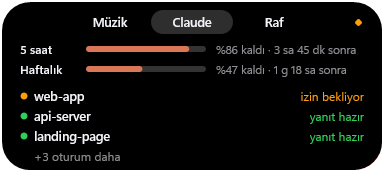
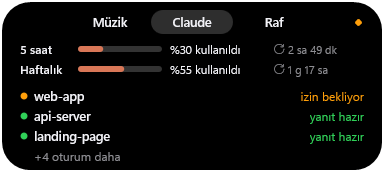
Limits as used, Send to the shelf; release 1.3.0
- Claude's limits show how much is used, not what is left: the closed island's
  ring fills with use; the Claude page reads "%27 kullanıldı" with the time to
  the reset. Colors go orange from 70% used, red from 90%. Same in the status
  line.
- Explorer's "Send to → Dynamic Island" (island.exe --shelf <files>) puts files
  on the shelf without dragging; the installer adds the shortcut.
- The glow around the island is thinner and fainter.
- A shelf click that does not come from a held mouse button never waits in
  DragDetect.

diff --git a/src/pages.rs b/src/pages.rs
@@ -161,11 +161,11 @@ pub fn two_lines(c: &Canvas, title: &str, detail: &str, w: f32, h: f32) -> Resul
 /// Diameter of the 5-hour limit ring.
 pub const RING: f32 = 22.0;
 
-/// What is left of the 5-hour limit: a ring that empties, the number inside.
-pub fn limit_ring(c: &Canvas, center: (f32, f32), left: f32, color: u32) -> Result<()> {
-    c.ring(center, RING / 2.0 - 1.5, 2.2, left / 100.0, color, FAINT)?;
+/// How much of the 5-hour limit is used: a ring that fills, the percent inside.
+pub fn limit_ring(c: &Canvas, center: (f32, f32), used: f32, color: u32) -> Result<()> {
+    c.ring(center, RING / 2.0 - 1.5, 2.2, used / 100.0, color, FAINT)?;
     let box_ = (center.0 - RING / 2.0, center.1 - RING / 2.0, RING, RING);
-    c.text(&format!("{left:.0}"), box_, if left >= 99.5 { 7.5 } else { 8.5 }, true, TEXT, Align::Center)
+    c.text(&format!("{used:.0}"), box_, if used >= 99.5 { 7.5 } else { 8.5 }, true, TEXT, Align::Center)
 }
 
 /// The volume peek in a `(w, h)` line: speaker, level bar, number.
@@ -222,17 +222,22 @@ pub fn claude_page(c: &Canvas, sessions: &[Session], limits: &Limits, now: u64) 
         c.text("Limit bilgisi yok", (X, 0.0, 200.0, 18.0), 12.0, true, TEXT, Align::Left)?;
         c.text("Claude Code'da oturum açılınca gelir", (X, 18.0, RIGHT - X, 18.0), 11.5, false, DIM, Align::Left)?;
     } else {
+        // Label, bar filled by what is used, "%23 kullanıldı", time to the reset.
         for (row, (label, window)) in [("5 saat", limits.five_hour), ("Haftalık", limits.seven_day)].into_iter().enumerate() {
             let y = row as f32 * 20.0;
-            let (remaining, text) = limit_text(window, limits.updated, now);
-            c.text(label, (X, y, 64.0, 18.0), 12.0, true, TEXT, Align::Left)?;
-            let (bar_x, bar_w) = (X + 66.0, 120.0);
+            let limit = limit_text(window, limits.updated, now);
+            c.text(label, (X, y, 56.0, 18.0), 12.0, true, TEXT, Align::Left)?;
+            let (bar_x, bar_w) = (X + 58.0, 84.0);
             c.round_rect((bar_x, y + 6.0, bar_w, 6.0), 3.0, FAINT)?;
-            if remaining > 0.0 {
-                let fill = if remaining < 0.1 { 0xFFFF453A } else if remaining < 0.3 { 0xFFFF9F0A } else { 0xFFD97757 };
-                c.round_rect((bar_x, y + 6.0, (bar_w * remaining).max(6.0), 6.0), 3.0, fill)?;
+            if limit.used > 0.0 {
+                let fill = crate::claude::usage_color(limit.used * 100.0);
+                c.round_rect((bar_x, y + 6.0, (bar_w * limit.used).max(6.0), 6.0), 3.0, fill)?;
             }
-            c.text(&text, (bar_x + bar_w + 10.0, y, RIGHT - bar_x - bar_w - 10.0, 18.0), 11.5, false, DIM, Align::Left)?;
+            c.text(&limit.used_text, (bar_x + bar_w + 8.0, y, 104.0, 18.0), 11.5, false, TEXT, Align::Left)?;
+            if limit.renews {
+                c.icon('\u{E72C}', (RIGHT - 92.0, y, 14.0, 18.0), 9.5, DIM)?; // Refresh, before the time
+            }
+            c.text(&limit.when, (RIGHT - 76.0, y, 76.0, 18.0), 11.0, false, DIM, Align::Left)?;
         }
     }
 
@@ -275,20 +280,29 @@ pub fn session_rows(sessions: &[Session]) -> Vec<&Session> {
     ordered
 }
 
-/// Remaining share (0..1) and the text next to the bar.
-pub fn limit_text(window: Option<Window>, updated: u64, now: u64) -> (f32, String) {
-    let Some(w) = window else { return (0.0, "bilgi yok".into()) };
+/// One limit row's figures.
+#[derive(Debug, PartialEq)]
+pub struct LimitText {
+    pub used: f32, // share used, 0..1
+    pub used_text: String,
+    pub when: String, // time to the reset, or how old the figures are
+    pub renews: bool, // `when` is the time to the reset
+}
+
+pub fn limit_text(window: Option<Window>, updated: u64, now: u64) -> LimitText {
+    let Some(w) = window else { return LimitText { used: 0.0, used_text: "bilgi yok".into(), when: String::new(), renews: false } };
     if now >= w.resets_at {
-        return (1.0, "%100 kaldı · sıfırlandı".into());
+        return LimitText { used: 0.0, used_text: "%0 kullanıldı".into(), when: "sıfırlandı".into(), renews: false };
     }
-    let remaining = (100.0 - w.used_percentage).clamp(0.0, 100.0);
+    let used = w.used_percentage.clamp(0.0, 100.0);
     let age = now.saturating_sub(updated);
-    let when = if age > 30 * 60 {
-        format!("{} önce", duration_text(age))
+    // Figures older than half an hour say so instead of a countdown that may be stale.
+    let (when, renews) = if age > 30 * 60 {
+        (format!("{} önce", duration_text(age)), false)
     } else {
-        format!("{} sonra", duration_text(w.resets_at - now))
+        (duration_text(w.resets_at - now), true)
     };
-    ((remaining / 100.0) as f32, format!("%{remaining:.0} kaldı · {when}"))
+    LimitText { used: (used / 100.0) as f32, used_text: format!("%{used:.0} kullanıldı"), when, renews }
 }
 
 fn duration_text(seconds: u64) -> String {
@@ -344,12 +358,14 @@ mod tests {
         assert_eq!(duration_text(2 * 3600 + 13 * 60), "2 sa 13 dk");
         assert_eq!(duration_text(3 * 86400 + 4 * 3600), "3 g 4 sa");
         let w = Window { used_percentage: 42.4, resets_at: 10_000 };
-        let (remaining, text) = limit_text(Some(w), 1_000, 1_000 + 60);
-        assert!((remaining - 0.576).abs() < 1e-4);
-        assert_eq!(text, "%58 kaldı · 2 sa 29 dk sonra");
-        assert_eq!(limit_text(Some(w), 0, 10_000).1, "%100 kaldı · sıfırlandı");
-        assert_eq!(limit_text(Some(w), 0, 3_000).1, "%58 kaldı · 50 dk önce");
-        assert_eq!(limit_text(None, 0, 0).1, "bilgi yok");
+        let fresh = limit_text(Some(w), 1_000, 1_000 + 60);
+        assert!((fresh.used - 0.424).abs() < 1e-4);
+        assert_eq!((fresh.used_text.as_str(), fresh.when.as_str(), fresh.renews), ("%42 kullanıldı", "2 sa 29 dk", true));
+        let reset = limit_text(Some(w), 0, 10_000);
+        assert_eq!((reset.used, reset.used_text.as_str(), reset.when.as_str()), (0.0, "%0 kullanıldı", "sıfırlandı"));
+        let stale = limit_text(Some(w), 0, 3_000); // figures 50 minutes old
+        assert_eq!((stale.when.as_str(), stale.renews), ("50 dk önce", false));
+        assert_eq!(limit_text(None, 0, 0).used_text, "bilgi yok");
     }
 
     #[test]

diff --git a/src/window.rs b/src/window.rs
@@ -11,6 +11,7 @@ use windows::{
         Graphics::Gdi::*,
         Storage::FileSystem::*,
         System::{
+            DataExchange::COPYDATASTRUCT,
             LibraryLoader::GetModuleHandleW,
             Ole::{IDropTarget, OleInitialize, RegisterDragDrop, RevokeDragDrop},
             Registry::*,
@@ -51,6 +52,7 @@ const WM_DEVICE_LOST: u32 = WM_APP + 6;
 const WM_VOLUME: u32 = WM_APP + 7;
 const WM_AUDIO_DEVICE: u32 = WM_APP + 8;
 const WM_DRAG_FILES: u32 = WM_APP + 10; // WPARAM: 1 files came over, 0 they left, 2 dropped
+const SHELF_COPYDATA: usize = 0x5348_454C; // "SHEL": WM_COPYDATA from `island.exe --shelf`
 const VOLUME_MS: u32 = 1500;
 const NIN_KEYSELECT: u32 = NIN_SELECT | 1; // NINF_KEY
 // All timers are one-shot: the window procedure kills each one when it fires.
@@ -113,6 +115,21 @@ struct App {
 
 /// Status, what it is about, 5-hour limit left and its color, color of the Claude mark.
 type CompactLine = (String, String, Option<(f32, u32)>, u32);
+
+/// `island.exe --shelf <files>`: puts the files on the running island's shelf. Explorer's
+/// "Send to → Dynamic Island" runs this with the selected files.
+pub fn send_to_shelf(paths: Vec<String>) {
+    let text = paths.join("\n");
+    let data = COPYDATASTRUCT { dwData: SHELF_COPYDATA, cbData: text.len() as u32, lpData: text.as_ptr() as *mut _ };
+    unsafe {
+        match FindWindowW(w!("NightdijitalIsland"), None) {
+            Ok(island) => {
+                SendMessageW(island, WM_COPYDATA, Some(WPARAM(0)), Some(LPARAM(&data as *const _ as isize)));
+            }
+            Err(_) => log("shelf: the island is not running"),
+        }
+    }
+}
 
 /// Creates the island window and runs the message loop until it is destroyed.
 pub fn run() -> Result<()> {
@@ -481,7 +498,7 @@ impl App {
     fn show_claude_state(&mut self, pulse: bool) {
         let (status, detail, mark) = claude::summary(&self.sessions, |s| !self.seen.contains(&s.id));
         // ponytail: a limit that resets while nothing happens shows 100 only at the next event
-        let line = (status, detail, claude::five_hour_left(&self.limits, claude::now_ms() / 1000), mark);
+        let line = (status, detail, claude::five_hour_used(&self.limits, claude::now_ms() / 1000), mark);
         let Some(island) = &self.island else { return };
         if self.compact_line.as_ref() != Some(&line) {
             if let Err(e) = island.draw_compact(&line.0, &line.1, line.2, line.3) {
@@ -961,6 +978,23 @@ impl App {
             WM_MEDIA => self.media_changed(),
             WM_VOLUME => self.show_volume(wparam.0 as u32, lparam.0 != 0),
             WM_DRAG_FILES => self.files_dragged(wparam.0),
+            // Files sent with `island.exe --shelf` (Explorer's "Send to").
+            WM_COPYDATA => {
+                let data = unsafe { (lparam.0 as *const COPYDATASTRUCT).as_ref() };
+                let Some(data) = data.filter(|d| d.dwData == SHELF_COPYDATA && !d.lpData.is_null()) else { return Ok(None) };
+                let bytes = unsafe { std::slice::from_raw_parts(data.lpData as *const u8, data.cbData as usize) };
+                let paths: Vec<std::path::PathBuf> = String::from_utf8_lossy(bytes).lines().filter(|l| !l.is_empty()).map(Into::into).collect();
+                let added = self.shelves[FILES].add(paths, false);
+                log(format!("shelf: {added} file(s) sent"));
+                self.list = FILES;
+                if self.view == View::Expanded && self.tab() == Some(Tab::Shelf) {
+                    self.draw_shelf();
+                } else if added > 0 {
+                    let text = format!("{added} dosya rafta");
+                    self.peek(Tab::Shelf, PEEK_MS, |island| island.draw_peek(&text, Some(0xFF0A84FF)));
+                }
+                return Ok(Some(LRESULT(1)));
+            }
             WM_AUDIO_DEVICE => self.follow_audio(),
             // On the open shelf the wheel scrolls its row; elsewhere it switches players.
             WM_MOUSEWHEEL if self.view == View::Expanded && self.tab() == Some(Tab::Shelf) => {
@@ -1108,9 +1142,11 @@ fn press_shelf_item(hwnd: HWND, index: usize, dragged: &[std::path::PathBuf], mu
         }
         return;
     }
+    // DragDetect waits for the mouse; a click that did not come from a held button (pen,
+    // touch, a posted message) is a click.
     let dragging = unsafe {
         let _ = ClientToScreen(hwnd, &mut point);
-        DragDetect(hwnd, point).as_bool()
+        GetAsyncKeyState(VK_LBUTTON.0 as i32) < 0 && DragDetect(hwnd, point).as_bool()
     };
     if !dragging {
         with_app(&mut |app| app.toggle_shelf_item(index));

diff --git a/src/claude.rs b/src/claude.rs
@@ -183,7 +183,7 @@ fn status_text(model: &str, limits: Option<&Limits>) -> String {
     if let Some(limits) = limits {
         for (label, window) in [("5 sa", limits.five_hour), ("hafta", limits.seven_day)] {
             if let Some(w) = window {
-                parts.push(format!("{label} %{:.0} kaldı", (100.0 - w.used_percentage).max(0.0)));
+                parts.push(format!("{label} %{:.0} kullanıldı", w.used_percentage.clamp(0.0, 100.0)));
             }
         }
     }
@@ -413,19 +413,22 @@ pub fn summary(sessions: &[Session], unseen: impl Fn(&Session) -> bool) -> (Stri
     }
 }
 
-/// Percent left of the 5-hour limit, and its color: Claude's own while there is plenty,
-/// orange under 30%, red under 10%.
-pub fn five_hour_left(limits: &Limits, now: u64) -> Option<(f32, u32)> {
+/// Percent used of the 5-hour limit (0 once it has reset), and its color.
+pub fn five_hour_used(limits: &Limits, now: u64) -> Option<(f32, u32)> {
     let w = limits.five_hour?;
-    let left = if now >= w.resets_at { 100.0 } else { (100.0 - w.used_percentage).clamp(0.0, 100.0) as f32 };
-    let color = if left < 10.0 {
+    let used = if now >= w.resets_at { 0.0 } else { w.used_percentage.clamp(0.0, 100.0) as f32 };
+    Some((used, usage_color(used)))
+}
+
+/// A limit's color by how much of it is used: Claude's own, orange from 70%, red from 90%.
+pub fn usage_color(used: f32) -> u32 {
+    if used >= 90.0 {
         0xFFFF453A
-    } else if left < 30.0 {
+    } else if used >= 70.0 {
         0xFFFF9F0A
     } else {
         0xFFD97757
-    };
-    Some((left, color))
+    }
 }
 
 /// Sessions whose Claude process still runs, newest first, and the last known limits.
@@ -541,10 +544,12 @@ mod tests {
         assert_eq!(text(summary(&done, |_| false)), "Çalışıyor / web +1");
 
         let limits = Limits { five_hour: Some(Window { used_percentage: 92.6, resets_at: 100 }), ..Limits::default() };
-        let left = five_hour_left(&limits, 50).unwrap();
-        assert!((left.0 - 7.4).abs() < 1e-3 && left.1 == 0xFFFF453A);
-        assert_eq!(five_hour_left(&limits, 100).map(|l| l.0), Some(100.0)); // reset since
-        assert_eq!(five_hour_left(&Limits::default(), 0), None);
+        let used = five_hour_used(&limits, 50).unwrap();
+        assert!((used.0 - 92.6).abs() < 1e-3 && used.1 == 0xFFFF453A);
+        assert_eq!(five_hour_used(&limits, 100).map(|l| l.0), Some(0.0)); // reset since
+        assert_eq!(five_hour_used(&Limits::default(), 0), None);
+        assert_eq!(usage_color(69.0), 0xFFD97757);
+        assert_eq!(usage_color(70.0), 0xFFFF9F0A);
     }
 
     #[test]
@@ -589,7 +594,7 @@ mod tests {
             updated: 0,
         };
         assert_eq!(limits.five_hour, Some(Window { used_percentage: 42.4, resets_at: 1760370000 }));
-        assert_eq!(status_text("Opus 5.5", Some(&limits)), "Opus 5.5 · 5 sa %58 kaldı · hafta %82 kaldı");
+        assert_eq!(status_text("Opus 5.5", Some(&limits)), "Opus 5.5 · 5 sa %42 kullanıldı · hafta %18 kullanıldı");
         assert_eq!(status_text("Opus 5.5", None), "Opus 5.5");
         // The file format round-trips.
         let line = |w: Window| format!("{} {}", w.used_percentage, w.resets_at);

diff --git a/src/island.rs b/src/island.rs
@@ -25,8 +25,8 @@ pub const PEEK: (f32, f32) = (350.0, 44.0);
 pub const EXPANDED: (f32, f32) = (380.0, PAGE_Y + PAGE.1);
 const MAX_RADIUS: f32 = 28.0;
 // The music glow's wider stroke; half of it lies outside the pill, inside the hit region's pad.
-const GLOW_WIDTH: f32 = 8.0;
-const GLOW_ALPHA: u32 = 0x16; // per stroke; where both overlap, near the edge, about 17%
+const GLOW_WIDTH: f32 = 5.0;
+const GLOW_ALPHA: u32 = 0x0E; // per stroke; where both overlap, near the edge, about 11%
 // Must stay below 1: Motion models an underdamped spring.
 const DAMPING: f32 = 0.78;
 const PERIOD_MS: f32 = 55.0;

diff --git a/src/main.rs b/src/main.rs
@@ -34,6 +34,8 @@ fn main() {
         Some("--statusline") => return claude::statusline(),
         Some("--setup-claude") => return claude::setup(true),
         Some("--remove-claude") => return claude::setup(false),
+        // Explorer's "Send to → Dynamic Island": hands the files to the running island.
+        Some("--shelf") => return window::send_to_shelf(std::env::args().skip(2).collect()),
         _ => {}
     }
     if let Err(e) = run() {

diff --git a/README.tr.md b/README.tr.md
@@ -33,8 +33,8 @@
 ## Özellikler
 
 - **Çalan müzik:** Windows medya kontrollerinde görünen her oynatıcı (Spotify, tarayıcılar, Medya Oynatıcı, Apple Music…). Şarkı, sanatçı, kapak ve ilerleme. Önceki, oynat/duraklat, sonraki, karıştır ve tekrar düğmeleri (oynatıcı destekliyorsa). İlerleme çubuğuna tıklayınca o yere atlar, fare tekerleği oynatıcılar arasında geçer. Müzik çalarken kapalı hapta küçük bir ekolayzer döner ve kenarında kapak renginde soluk bir parıltı olur.
-- **Claude Code:** açık oturumlar ve ne yaptıkları (çalışıyor, izin bekliyor, yanıt hazır), 5 saatlik ve haftalık plan limitleri. Seni bekleyen bir oturum kısa bir önizleme açar. Bir oturuma tıklamak onun penceresini öne getirir.
-- **Dosya rafı:** dosyaları island'a sürükleyin, rafında beklesinler; sonra oradan istediğiniz klasöre, e-postaya ya da sohbete sürükleyin. Dosyalarınız yerinden oynamaz: raf yalnızca nerede olduklarını hatırlar, bırakınca kopyalanır.
+- **Claude Code:** açık oturumlar ve ne yaptıkları (çalışıyor, izin bekliyor, yanıt hazır), 5 saatlik ve haftalık plan limitlerinin ne kadarının kullanıldığı. Seni bekleyen bir oturum kısa bir önizleme açar. Bir oturuma tıklamak onun penceresini öne getirir.
+- **Dosya rafı:** dosyaları island'a sürükleyin (ya da sağ tık → Gönder → Dynamic Island), rafında beklesinler; sonra oradan istediğiniz klasöre, e-postaya ya da sohbete sürükleyin. Dosyalarınız yerinden oynamaz: raf yalnızca nerede olduklarını hatırlar, bırakınca kopyalanır.
 - **Rafta ekran görüntüleri:** her yeni ekran görüntüsü (Win + PrtScn, Ekran Alıntısı Aracı) kısa bir önizlemeyle rafın ikinci listesine, çekildiği saatle eklenir.
 - **Toplu seçim:** iki listede de tıklayarak seçin, seçilenlerin hepsini birden sürükleyip bırakın. Çift tıklama dosyayı açar; uzun listeyi fare tekerleği kaydırır.
 - **Ses seviyesi:** sistem sesi değişince seviye kısa süre görünür.

diff --git a/README.md b/README.md
@@ -33,8 +33,8 @@
 ## Features
 
 - **Now playing:** any player that shows up in Windows' media controls (Spotify, browsers, Media Player, Apple Music…). Title, artist, cover art and progress. Previous, play/pause, next, shuffle and repeat buttons when the player supports them. Click the progress bar to seek, scroll to switch between players. While music plays, the closed island shows a small equalizer and a soft glow in the color of the cover.
-- **Claude Code:** open sessions and what they are doing (working, waiting for permission, answer ready), plus your 5-hour and weekly plan limits. A session that needs you opens a short peek. Click a session to bring its window to the front.
-- **File shelf:** drag files onto the island and they wait on its shelf; later drag them from there to any folder, mail or chat. Your files stay where they are: the shelf only remembers them, and a drop copies.
+- **Claude Code:** open sessions and what they are doing (working, waiting for permission, answer ready), plus how much of your 5-hour and weekly plan limits you have used. A session that needs you opens a short peek. Click a session to bring its window to the front.
+- **File shelf:** drag files onto the island (or right-click them → Send to → Dynamic Island) and they wait on its shelf; later drag them from there to any folder, mail or chat. Your files stay where they are: the shelf only remembers them, and a drop copies.
 - **Screenshots on the shelf:** every new screenshot (Win + PrtScn, the Snipping Tool) lands in the shelf's second list with a short peek, labelled by the time it was taken.
 - **Pick several:** on both lists, click to select, then drag the whole selection out at once. Double-click opens a file; the wheel scrolls a long list.
 - **Volume:** a short peek with the level whenever the system volume changes.
